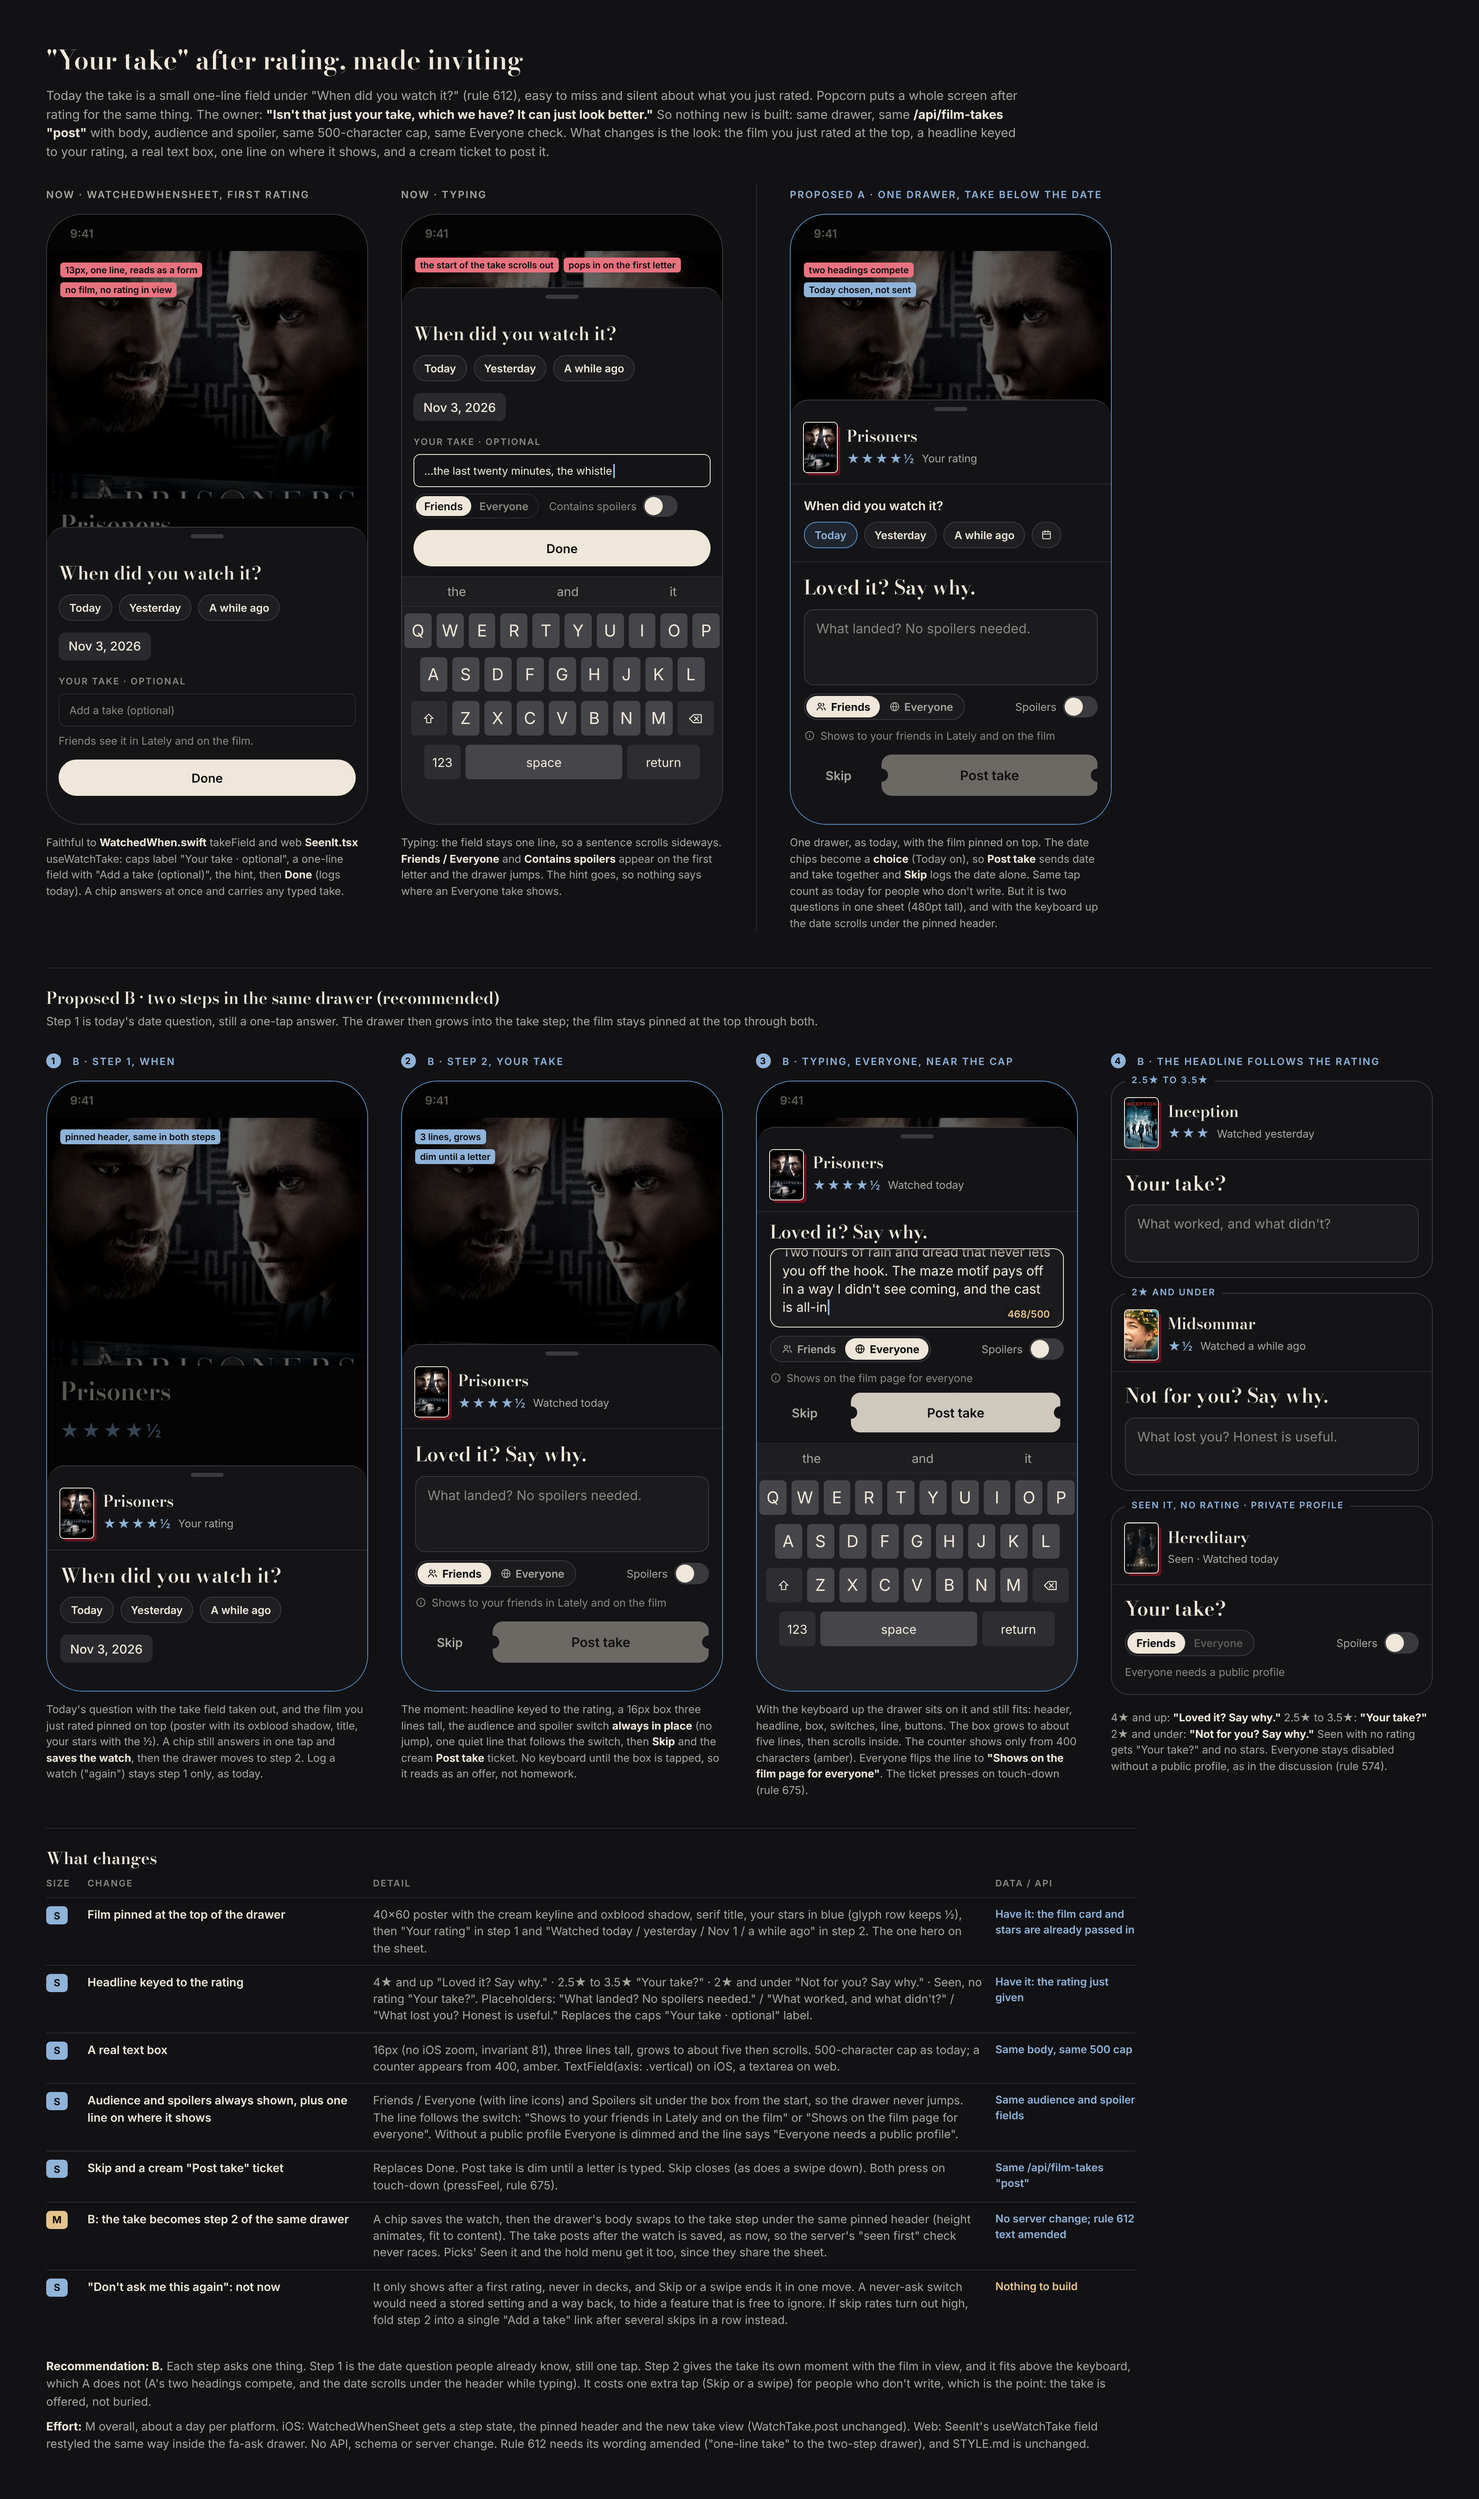
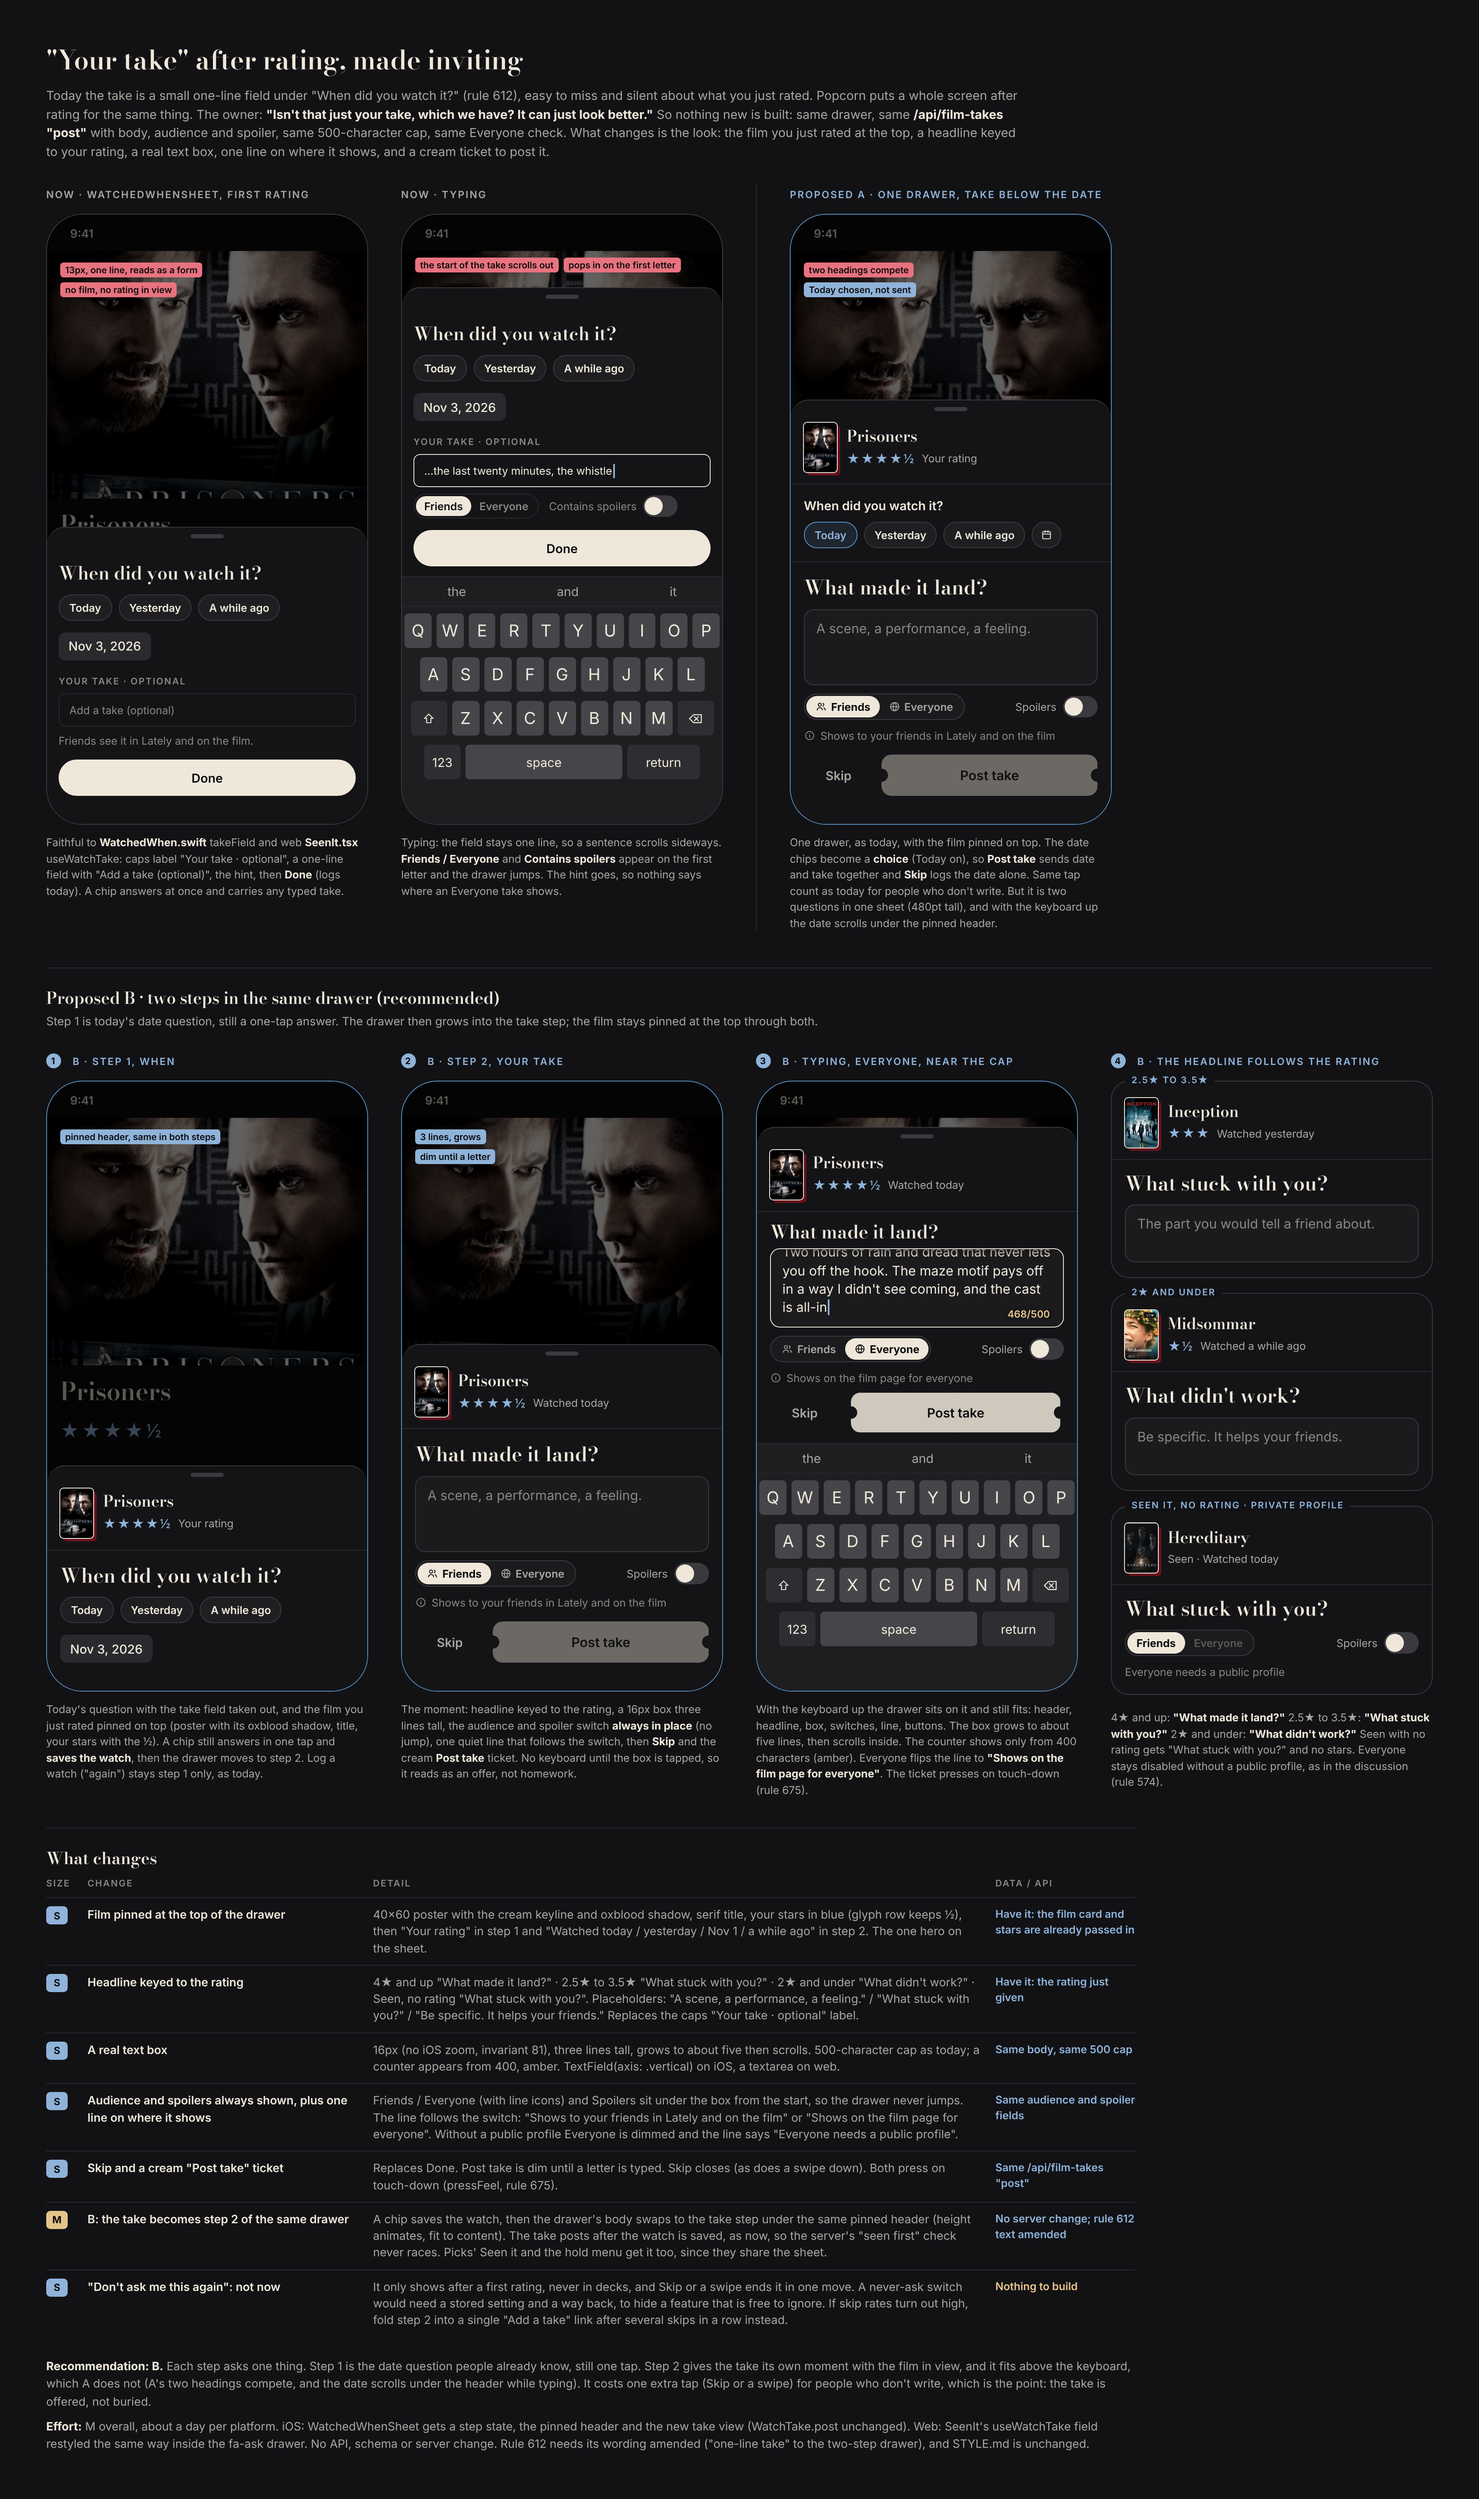
Take prompt mock: Montage's own copy, not the competitor's
Claude-Session: https://claude.ai/code/session_013WRDCFXH8nihP92apJAVW7

Changed region(s): [[0.2812, 0.7805, 0.625, 0.8117], [0.75, 0.6868, 0.9688, 0.718], [0.7812, 0.4683, 0.875, 0.4995]]

diff --git a/mockups/journeys/take-prompt.html b/mockups/journeys/take-prompt.html
@@ -129,8 +129,8 @@ svg.i.s14{width:14px;height:14px}
 <div class="q">When did you watch it?</div>
 <div class="chips"><span class="chip on2">Today</span><span class="chip">Yesterday</span><span class="chip">A while ago</span><span class="chip" style="padding:0 10px"><svg class="i s14" viewBox="0 0 24 24"><rect x="4" y="5" width="16" height="15" rx="2"/><path d="M4 10h16M9 3v4M15 3v4"/></svg></span></div>
 <div class="rule2"></div>
-<div class="hl">Loved it? Say why.</div>
-<div class="ta">What landed? No spoilers needed.</div>
+<div class="hl">What made it land?</div>
+<div class="ta">A scene, a performance, a feeling.</div>
 <div class="opts"><span class="seg"><span class="on"><svg class="i s14" viewBox="0 0 24 24"><circle cx="9" cy="8" r="3.2"/><path d="M3.5 19c.6-3 2.8-4.8 5.5-4.8s4.9 1.8 5.5 4.8"/><path d="M15.5 5.2a3 3 0 010 5.6M17.5 14.6c1.5.6 2.6 2.2 3 4.4"/></svg>Friends</span><span><svg class="i s14" viewBox="0 0 24 24"><circle cx="12" cy="12" r="8.5"/><path d="M3.5 12h17M12 3.5c2.4 2.6 3.5 5.4 3.5 8.5s-1.1 5.9-3.5 8.5c-2.4-2.6-3.5-5.4-3.5-8.5s1.1-5.9 3.5-8.5z"/></svg>Everyone</span></span><span class="spl">Spoilers <span class="sw"></span></span></div>
 <div class="where"><svg class="i s14" viewBox="0 0 24 24"><circle cx="12" cy="12" r="8.5"/><path d="M12 11v5M12 8h.01"/></svg>Shows to your friends in Lately and on the film</div>
 <div class="foot"><span class="skip">Skip</span><span class="ticket dis">Post take</span></div>
@@ -162,8 +162,8 @@ svg.i.s14{width:14px;height:14px}
 <div class="d-phone pro" data-bg="prisoners" data-stars="★★★★½">
 <div class="dr"><div class="grab"></div>
 <div class="anc"><div class="po" style="background-image:url(../img/prisoners.png)"></div><div><div class="tt">Prisoners</div><div class="mt"><span class="st">★★★★½</span>Watched today</div></div></div>
-<div class="hl">Loved it? Say why.</div>
-<div class="ta">What landed? No spoilers needed.</div>
+<div class="hl">What made it land?</div>
+<div class="ta">A scene, a performance, a feeling.</div>
 <div class="opts"><span class="seg"><span class="on"><svg class="i s14" viewBox="0 0 24 24"><circle cx="9" cy="8" r="3.2"/><path d="M3.5 19c.6-3 2.8-4.8 5.5-4.8s4.9 1.8 5.5 4.8"/><path d="M15.5 5.2a3 3 0 010 5.6M17.5 14.6c1.5.6 2.6 2.2 3 4.4"/></svg>Friends</span><span><svg class="i s14" viewBox="0 0 24 24"><circle cx="12" cy="12" r="8.5"/><path d="M3.5 12h17M12 3.5c2.4 2.6 3.5 5.4 3.5 8.5s-1.1 5.9-3.5 8.5c-2.4-2.6-3.5-5.4-3.5-8.5s1.1-5.9 3.5-8.5z"/></svg>Everyone</span></span><span class="spl">Spoilers <span class="sw"></span></span></div>
 <div class="where"><svg class="i s14" viewBox="0 0 24 24"><circle cx="12" cy="12" r="8.5"/><path d="M12 11v5M12 8h.01"/></svg>Shows to your friends in Lately and on the film</div>
 <div class="foot"><span class="skip">Skip</span><span class="ticket dis">Post take</span></div>
@@ -178,7 +178,7 @@ svg.i.s14{width:14px;height:14px}
 <div class="d-phone pro" data-bg="prisoners" data-stars="★★★★½">
 <div class="dr kbd"><div class="grab"></div>
 <div class="anc"><div class="po" style="background-image:url(../img/prisoners.png)"></div><div><div class="tt">Prisoners</div><div class="mt"><span class="st">★★★★½</span>Watched today</div></div></div>
-<div class="hl" style="margin:12px 0 8px;font-size:22px">Loved it? Say why.</div>
+<div class="hl" style="margin:12px 0 8px;font-size:22px">What made it land?</div>
 <div class="ta f" style="height:96px;overflow:hidden;display:flex;flex-direction:column;justify-content:flex-end"><div style="-webkit-mask:linear-gradient(to bottom,transparent 0,#000 18px)">Two hours of rain and dread that never lets you off the hook. The maze motif pays off in a way I didn't see coming, and the cast is all-in<span class="cur"></span></div><span class="cnt" style="background:#18181a;padding:0 4px;border-radius:4px">468/500</span></div>
 <div class="opts"><span class="seg"><span><svg class="i s14" viewBox="0 0 24 24"><circle cx="9" cy="8" r="3.2"/><path d="M3.5 19c.6-3 2.8-4.8 5.5-4.8s4.9 1.8 5.5 4.8"/><path d="M15.5 5.2a3 3 0 010 5.6M17.5 14.6c1.5.6 2.6 2.2 3 4.4"/></svg>Friends</span><span class="on"><svg class="i s14" viewBox="0 0 24 24"><circle cx="12" cy="12" r="8.5"/><path d="M3.5 12h17M12 3.5c2.4 2.6 3.5 5.4 3.5 8.5s-1.1 5.9-3.5 8.5c-2.4-2.6-3.5-5.4-3.5-8.5s1.1-5.9 3.5-8.5z"/></svg>Everyone</span></span><span class="spl">Spoilers <span class="sw"></span></span></div>
 <div class="where"><svg class="i s14" viewBox="0 0 24 24"><circle cx="12" cy="12" r="8.5"/><path d="M12 11v5M12 8h.01"/></svg>Shows on the film page for everyone</div>
@@ -193,21 +193,21 @@ svg.i.s14{width:14px;height:14px}
 <div class="d-col"><div class="d-tg pro"><span class="d-k">4</span>B · the headline follows the rating</div>
 <div class="mini"><span class="lab">2.5★ to 3.5★</span>
 <div class="anc" style="margin:0 -16px;padding-top:4px"><div class="po" style="background-image:url(../img/inception.png)"></div><div><div class="tt">Inception</div><div class="mt"><span class="st">★★★</span>Watched yesterday</div></div></div>
-<div class="hl">Your take?</div>
-<div class="ta" style="min-height:70px">What worked, and what didn't?</div>
+<div class="hl">What stuck with you?</div>
+<div class="ta" style="min-height:70px">The part you would tell a friend about.</div>
 </div>
 <div class="mini"><span class="lab">2★ and under</span>
 <div class="anc" style="margin:0 -16px;padding-top:4px"><div class="po" style="background-image:url(../img/midsommar.png)"></div><div><div class="tt">Midsommar</div><div class="mt"><span class="st">★½</span>Watched a while ago</div></div></div>
-<div class="hl">Not for you? Say why.</div>
-<div class="ta" style="min-height:70px">What lost you? Honest is useful.</div>
+<div class="hl">What didn't work?</div>
+<div class="ta" style="min-height:70px">Be specific. It helps your friends.</div>
 </div>
 <div class="mini"><span class="lab">Seen it, no rating · private profile</span>
 <div class="anc" style="margin:0 -16px;padding-top:4px"><div class="po" style="background-image:url(../img/hereditary.png)"></div><div><div class="tt">Hereditary</div><div class="mt">Seen · Watched today</div></div></div>
-<div class="hl">Your take?</div>
+<div class="hl">What stuck with you?</div>
 <div class="opts" style="margin-top:0"><span class="seg"><span class="on">Friends</span><span class="off">Everyone</span></span><span class="spl">Spoilers <span class="sw"></span></span></div>
 <div class="where">Everyone needs a public profile</div>
 </div>
-<div class="d-cap" style="margin-top:0">4★ and up: <b>"Loved it? Say why."</b> 2.5★ to 3.5★: <b>"Your take?"</b> 2★ and under: <b>"Not for you? Say why."</b> Seen with no rating gets "Your take?" and no stars. Everyone stays disabled without a public profile, as in the discussion (rule 574).</div>
+<div class="d-cap" style="margin-top:0">4★ and up: <b>"What made it land?"</b> 2.5★ to 3.5★: <b>"What stuck with you?"</b> 2★ and under: <b>"What didn't work?"</b> Seen with no rating gets "What stuck with you?" and no stars. Everyone stays disabled without a public profile, as in the discussion (rule 574).</div>
 </div>
 </div>
 
@@ -215,7 +215,7 @@ svg.i.s14{width:14px;height:14px}
 <h2>What changes</h2>
 <div class="d-ch hd"><span>Size</span><span>Change</span><span>Detail</span><span>Data / API</span></div>
 <div class="d-ch"><span class="d-sz">S</span><span class="what">Film pinned at the top of the drawer</span><span class="data">40×60 poster with the cream keyline and oxblood shadow, serif title, your stars in blue (glyph row keeps ½), then "Your rating" in step 1 and "Watched today / yesterday / Nov 1 / a while ago" in step 2. The one hero on the sheet.</span><span class="have y">Have it: the film card and stars are already passed in</span></div>
-<div class="d-ch"><span class="d-sz">S</span><span class="what">Headline keyed to the rating</span><span class="data">4★ and up "Loved it? Say why." · 2.5★ to 3.5★ "Your take?" · 2★ and under "Not for you? Say why." · Seen, no rating "Your take?". Placeholders: "What landed? No spoilers needed." / "What worked, and what didn't?" / "What lost you? Honest is useful." Replaces the caps "Your take · optional" label.</span><span class="have y">Have it: the rating just given</span></div>
+<div class="d-ch"><span class="d-sz">S</span><span class="what">Headline keyed to the rating</span><span class="data">4★ and up "What made it land?" · 2.5★ to 3.5★ "What stuck with you?" · 2★ and under "What didn't work?" · Seen, no rating "What stuck with you?". Placeholders: "A scene, a performance, a feeling." / "What stuck with you?" / "Be specific. It helps your friends." Replaces the caps "Your take · optional" label.</span><span class="have y">Have it: the rating just given</span></div>
 <div class="d-ch"><span class="d-sz">S</span><span class="what">A real text box</span><span class="data">16px (no iOS zoom, invariant 81), three lines tall, grows to about five then scrolls. 500-character cap as today; a counter appears from 400, amber. TextField(axis: .vertical) on iOS, a textarea on web.</span><span class="have y">Same body, same 500 cap</span></div>
 <div class="d-ch"><span class="d-sz">S</span><span class="what">Audience and spoilers always shown, plus one line on where it shows</span><span class="data">Friends / Everyone (with line icons) and Spoilers sit under the box from the start, so the drawer never jumps. The line follows the switch: "Shows to your friends in Lately and on the film" or "Shows on the film page for everyone". Without a public profile Everyone is dimmed and the line says "Everyone needs a public profile".</span><span class="have y">Same audience and spoiler fields</span></div>
 <div class="d-ch"><span class="d-sz">S</span><span class="what">Skip and a cream "Post take" ticket</span><span class="data">Replaces Done. Post take is dim until a letter is typed. Skip closes (as does a swipe down). Both press on touch-down (pressFeel, rule 675).</span><span class="have y">Same /api/film-takes "post"</span></div>
